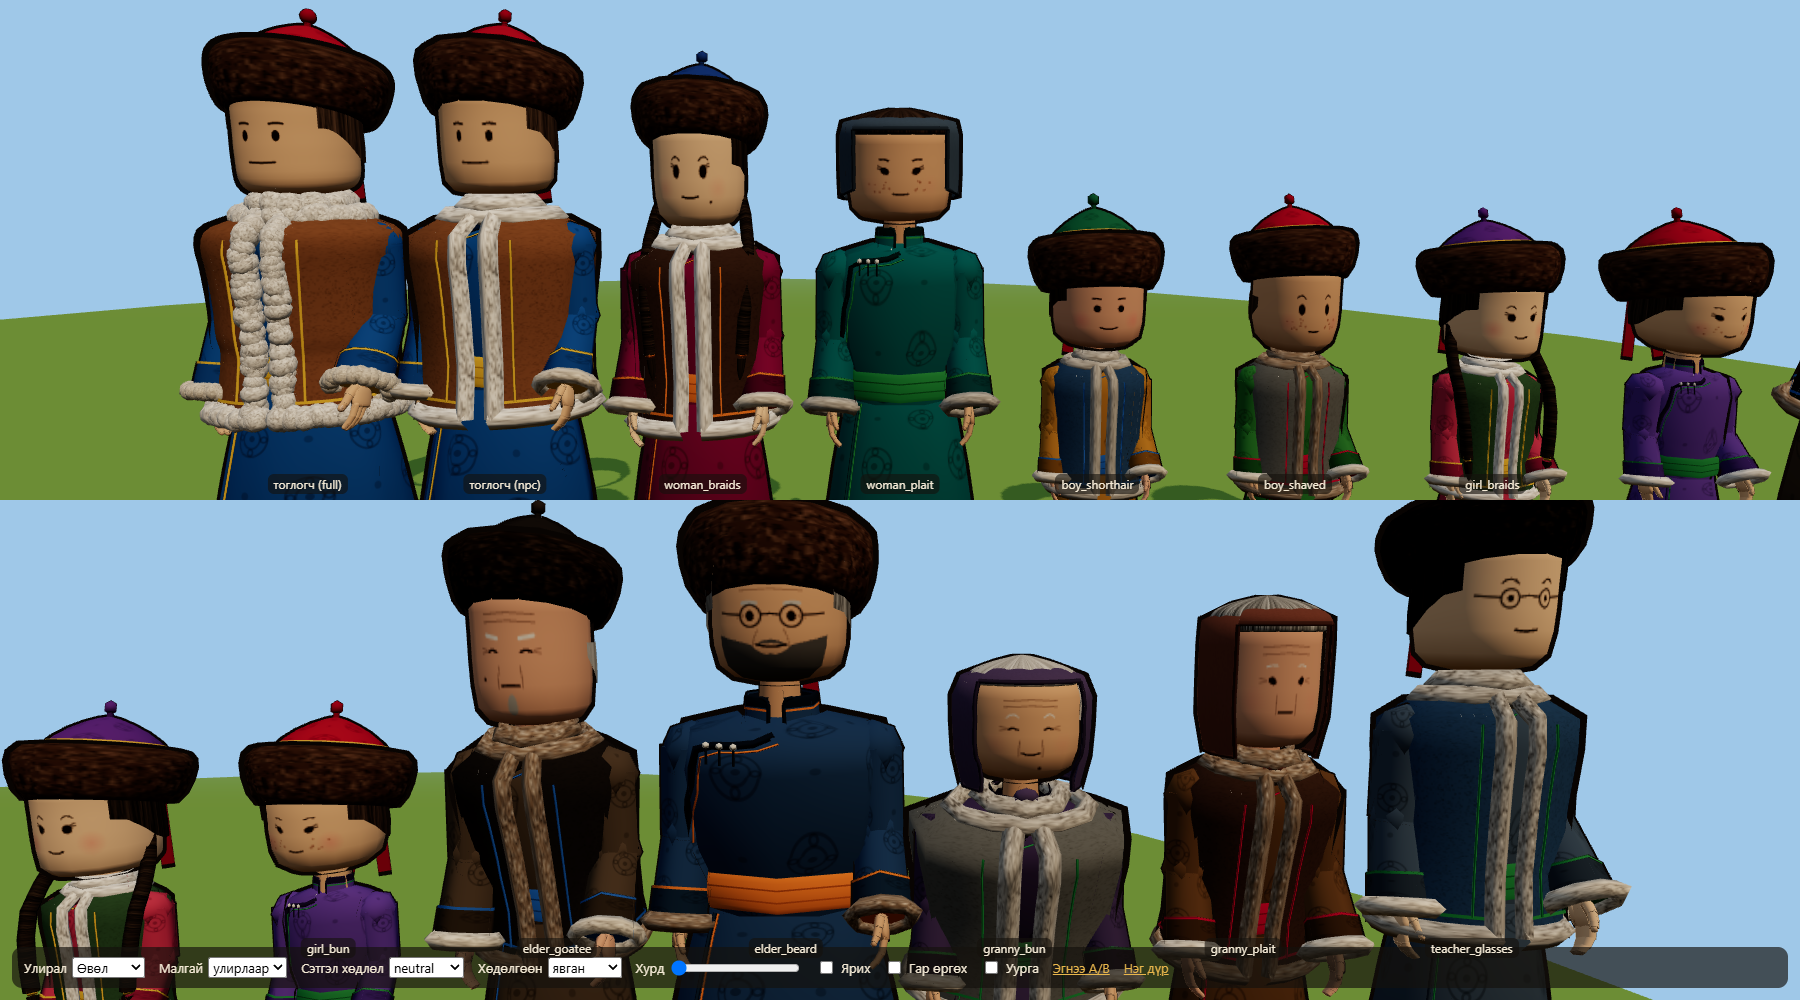
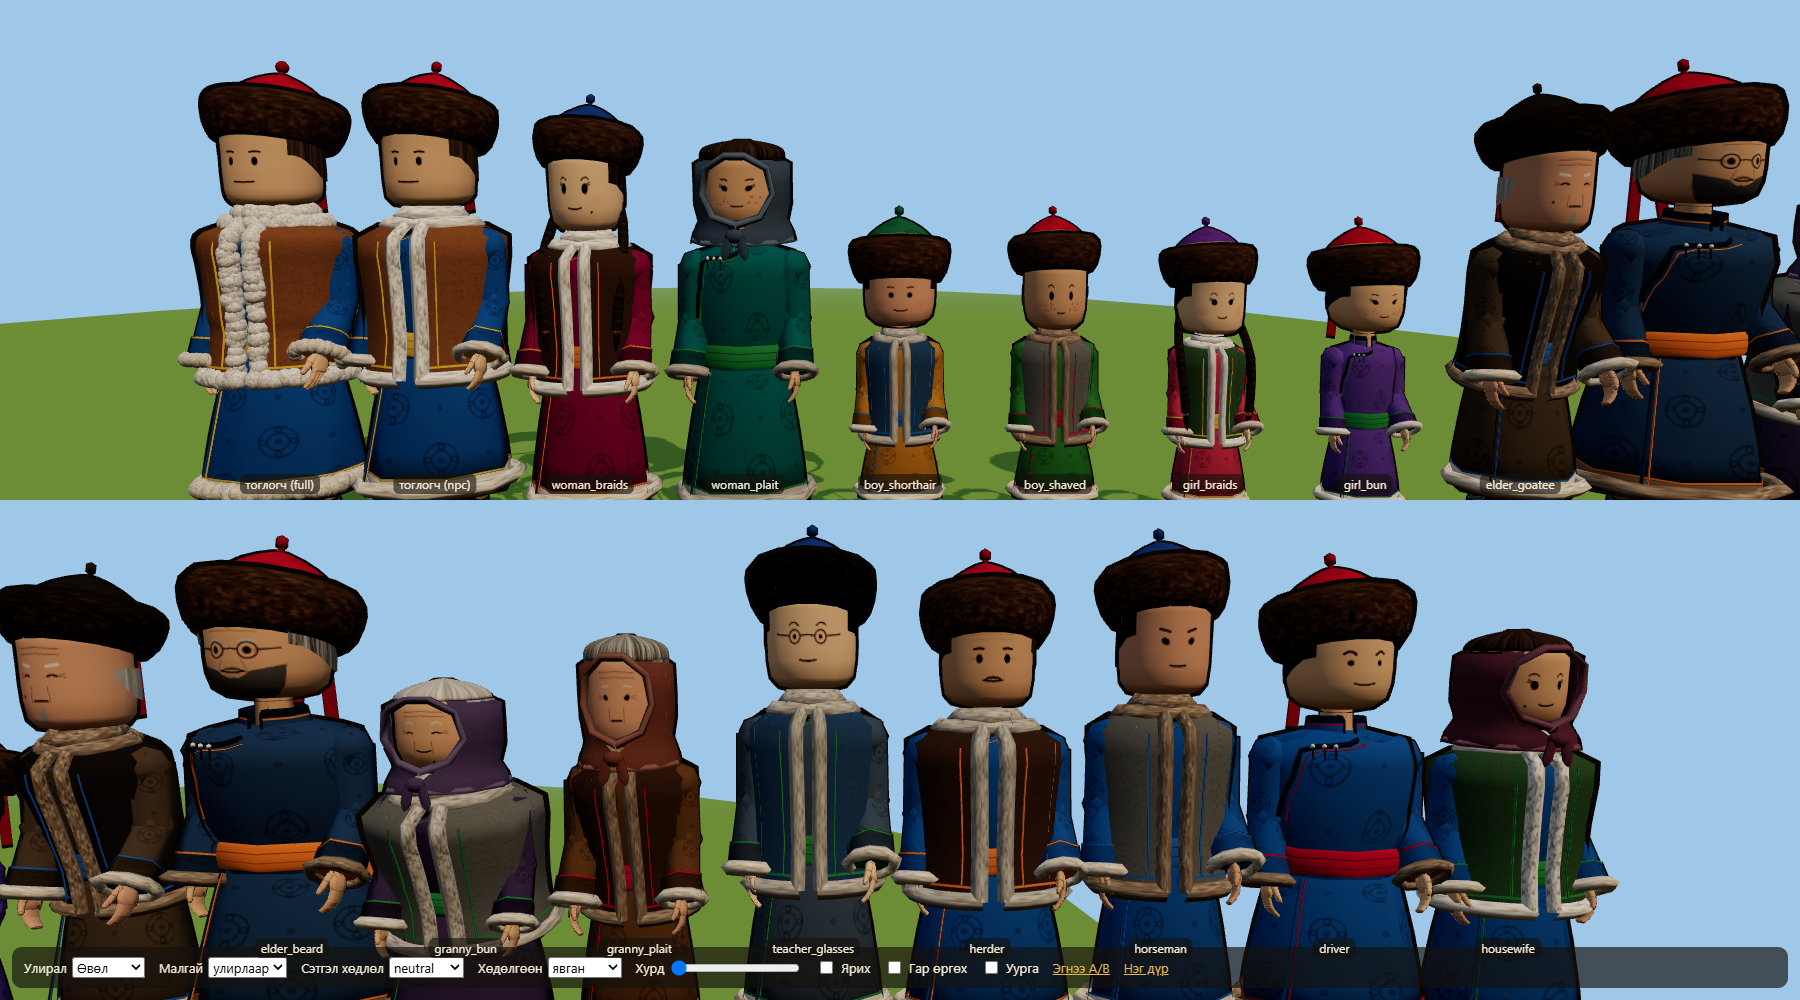
fix(character): өвлийн зузаан алчуур — толгойг дагасан бөөрөнхий, нүүрийг зууван тойрсон, эрүүн доогуур зангидсан

diff --git a/game/src/render/character/parts/hats.ts b/game/src/render/character/parts/hats.ts
@@ -5,7 +5,7 @@
 import * as THREE from 'three';
 import { headProfile, profileRadius } from './head';
 import { noOut, profile, type Kit, type Pt } from '../geom';
-import { cap, darken, felt, fur, silk, smooth } from '../materials';
+import { cap, darken, felt, fur, lighten, silk, smooth } from '../materials';
 import type { CharacterHat, CharacterSpec } from '../spec';
 
 /** Тоорцог: эсгий бөмбөгөр орой, хар судал, алхан хээтэй орой, сампин, 4 далбаа; арагш далийлгаж өмссөн. hy — толгойн өндөр */
@@ -190,6 +190,65 @@ function scarfHat(name: 'scarf' | 'shawl', thick: boolean): HatBuilder {
   };
 }
 
+/**
+ * Өвлийн зузаан алчуур (shawl): толгойн хэлбэрийг дагасан бөөрөнхий, зөөлөн бүрхүүл — нүүрний нээлт зууван (эрүүнээс
+ * дух хүртэл), эрүүн доогуур бүтэн ороож, эрүүн доор зангидсан. Геометр толгойн төвөөс; ирмэг нь зөөлөн зузаан хоолой.
+ */
+function shawl(spec: CharacterSpec, kit: Kit, hy: number): THREE.Group {
+  const L = spec.hats.shawl, { width: hw, height: hh } = spec.headShape;
+  const R = profileRadius(headProfile(spec.headShape));
+  const hat = new THREE.Group();
+  hat.name = 'hat:shawl';
+  const cloth = felt(L.color, true), rim = smooth(lighten(L.color, 0.12));
+  // нүүрний зууван нээлт: төв YC, хагас өндөр RY, урдаас хэмжсэн хагас өнцөг A0 (хацар ил)
+  const YC = -0.03, RY = 0.215, A0 = 0.78, TOP = 0.262, LOW = -0.36, OFF = 0.045;
+  const open = (y: number): number => { const t = (y - YC) / RY; return Math.abs(t) >= 1 ? 0 : A0 * Math.sqrt(1 - t * t); };
+  const at = (d: number, y: number, extra = 0): THREE.Vector3 => {
+    // эрүүнээс доош хүзүүг тойрч зөөлөн бөөрөнхий (хүзүүнд наалдахгүй)
+    const neck = y < -0.2 ? 0.2 + 0.06 * Math.min(1, (-0.2 - y) / 0.12) : 0;
+    const r = Math.max(R(y), neck) + OFF + extra, phi = Math.PI + d;
+    return new THREE.Vector3(r * Math.sin(phi) * hw, y * hh, r * Math.cos(phi) * hw);
+  };
+  const NU = kit.q(44, 14), NV = kit.q(18, 7), pos: number[] = [], uv: number[] = [], idx: number[] = [];
+  for (let b = 0; b <= NV; b++) {
+    const t = b / NV, y = LOW + (TOP - LOW) * (1 - Math.cos((t * Math.PI) / 2));   // орой руугаа нягт
+    const span = Math.PI - open(y);
+    for (let a = 0; a <= NU; a++) {
+      const p = at(-span + (a / NU) * span * 2, y);
+      pos.push(p.x, p.y, p.z); uv.push((a / NU) * 3, t * 2);
+    }
+  }
+  for (let b = 0; b < NV; b++) for (let a = 0; a < NU; a++) {
+    const p0 = b * (NU + 1) + a, p1 = p0 + NU + 1;
+    idx.push(p0, p0 + 1, p1, p0 + 1, p1 + 1, p1);
+  }
+  const geo = new THREE.BufferGeometry();
+  geo.setAttribute('position', new THREE.Float32BufferAttribute(pos, 3));
+  geo.setAttribute('uv', new THREE.Float32BufferAttribute(uv, 2));
+  geo.setIndex(idx);
+  geo.computeVertexNormals();
+  const shell = new THREE.Mesh(geo, cloth);
+  shell.position.y = hy; shell.castShadow = true;
+  hat.add(shell);
+  const g = new THREE.Group();
+  g.position.y = hy;
+  hat.add(g);
+  // нүүрийг тойрсон зөөлөн зузаан ирмэг (зууван гогцоо) ба доод ирмэг
+  const ring: THREE.Vector3[] = [];
+  for (let k = 0; k <= 12; k++) { const y = YC - RY + (2 * RY * k) / 12; ring.push(at(Math.PI - open(y), y, 0.012)); }        // нэг тал: доороос дээш
+  for (let k = 12; k >= 0; k--) { const y = YC - RY + (2 * RY * k) / 12; ring.push(at(-(Math.PI - open(y)), y, 0.012)); }   // нөгөө тал: дээрээс доош
+  kit.tube(ring, 0.026, rim, g, 0.5);
+  kit.tube(Array.from({ length: 25 }, (_, k) => at(-Math.PI + (k / 24) * Math.PI * 2, LOW, 0.004)), 0.02, rim, g, 0.5);
+  // эрүүн доорх зангилаа, хоёр богино үзүүр
+  const knot = at(Math.PI, YC - RY - 0.06, 0.03);
+  noOut(kit.sball(0.05, cloth, knot.x, knot.y, knot.z, g)).scale.set(1.2, 0.85, 0.85);
+  for (const sx of [-1, 1]) {
+    const tail = noOut(kit.lathe([[0.004, -0.13], [0.03, -0.09], [0.026, 0]], 0.35, cloth, knot.x + sx * 0.035, knot.y - 0.01, knot.z + 0.01, g, { rows: 6 }));
+    tail.rotation.z = sx * 0.25;
+  }
+  return hat;
+}
+
 /** Охидын тууз: духны дээгүүр толгойг тойрсон тууз, хажуудаа зангидсан нум */
 function ribbon(spec: CharacterSpec, kit: Kit, hy: number): THREE.Group {
   const { width: hw, height: hh } = spec.headShape, R = profileRadius(headProfile(spec.headShape));
@@ -206,4 +265,4 @@ function ribbon(spec: CharacterSpec, kit: Kit, hy: number): THREE.Group {
 
 export type HatBuilder = (spec: CharacterSpec, kit: Kit, hy: number) => THREE.Group;
 /** Бүртгэлийн дараалал = угсрах дараалал (тоглогчийнх toortsog, fox) */
-export const HATS: Readonly<Record<CharacterHat, HatBuilder>> = { toortsog, fox, scarf: scarfHat('scarf', false), shawl: scarfHat('shawl', true), ribbon };
+export const HATS: Readonly<Record<CharacterHat, HatBuilder>> = { toortsog, fox, scarf: scarfHat('scarf', false), shawl, ribbon };
